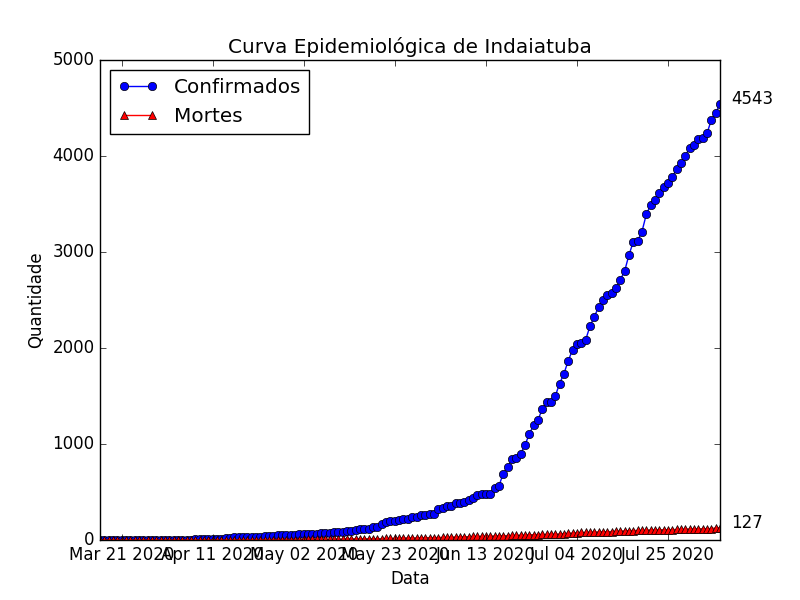
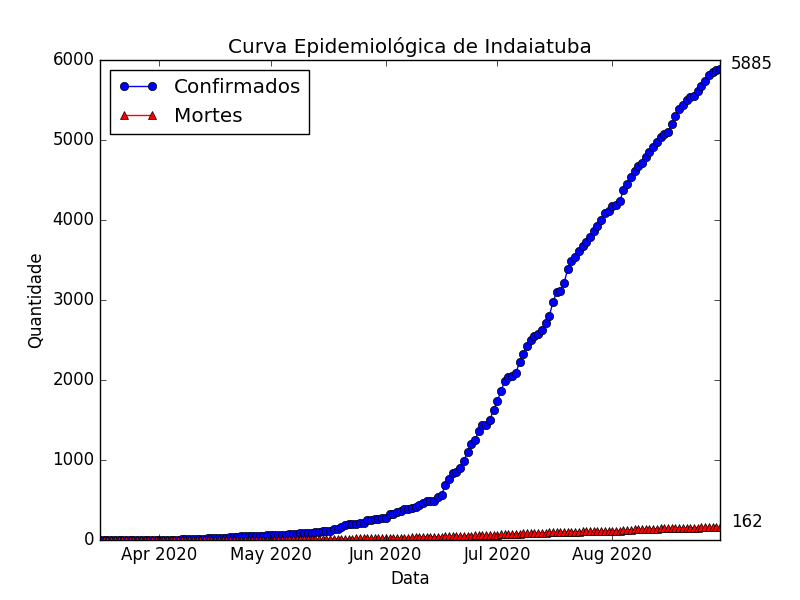
Atualicacao em 30/08/2020

diff --git a/README.md b/README.md
@@ -8,7 +8,7 @@ A partir dos dados disponibilizados pela prefeitura municipal de Indaiatuba, tro
 
 ## Gráfico
 
-Data da atualização: 07/08/2020
+Data da atualização: 30/08/2020
 
 No gráfico abaixo, temos o total de casos:
 ![Covid em Indaiatuba](figura.png)
